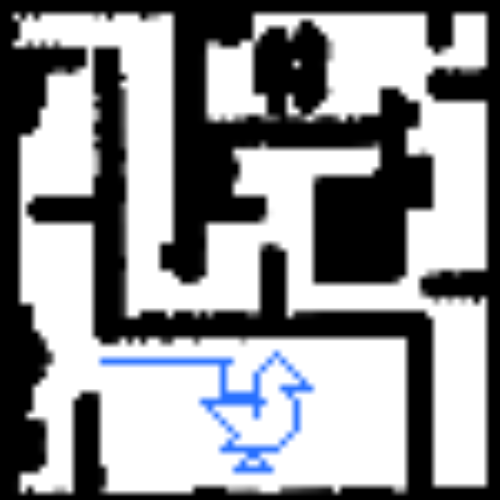
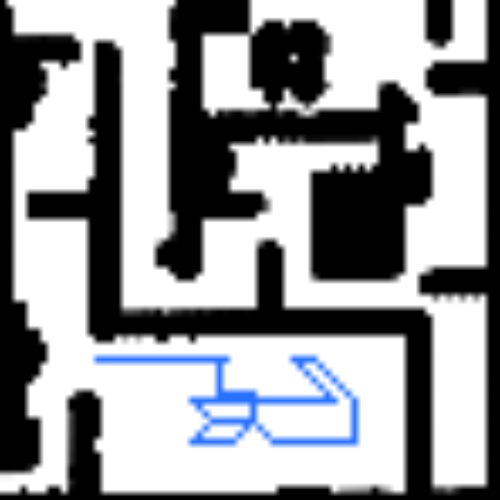
Gato

Changed region(s): [[0.0, 0.0, 0.99, 1.0], [0.0, 0.69, 0.24, 1.0]]

diff --git a/scripts/dibujo_server.py b/scripts/dibujo_server.py
@@ -59,7 +59,48 @@ class Ruta:
 
     def gato(self, derecha, izquierda, up, down, nodo):
         if (derecha + izquierda) > (up + down):  # Es ancho el espacio de dibujo
-            pass
+            for i in range(6):
+                nodo = self.dar_nodo_direccion('W', nodo)  # Se mueve del centro para arriba
+                self.ruta.append(nodo)
+            for i in range(3):
+                nodo = self.dar_nodo_direccion('N', nodo)
+                nodo = self.dar_nodo_direccion('W', nodo)  # Se mueve diagonal arriba a la punta de la cabeza
+                self.ruta.append(nodo)
+            for i in range(21):
+                nodo = self.dar_nodo_direccion('E', nodo)  # Se mueve diagonal abajo a la derecha hasta la punta del pico
+                self.ruta.append(nodo)
+            for i in range(6):
+                nodo = self.dar_nodo_direccion('N', nodo)
+                nodo = self.dar_nodo_direccion('W', nodo)  # Se mueve a la izquierda hasa el cuello
+                self.ruta.append(nodo)
+            for i in range(3):
+                nodo = self.dar_nodo_direccion('E', nodo)  # Diagonal derecha abajo para pecho
+                self.ruta.append(nodo)
+            for i in range(6):
+                nodo = self.dar_nodo_direccion('S', nodo)  # Recto hacia abajo para pecho
+                nodo = self.dar_nodo_direccion('E', nodo)
+                self.ruta.append(nodo)
+            for i in range(6):
+                nodo = self.dar_nodo_direccion('S', nodo)
+                self.ruta.append(nodo)
+            for i in range(12):
+                nodo = self.dar_nodo_direccion('W', nodo)  # Izquierda hasta llegar a la pata
+                self.ruta.append(nodo)
+            for i in range(3):
+                nodo = self.dar_nodo_direccion('N', nodo)
+                nodo = self.dar_nodo_direccion('W', nodo)  # Diagonal abajo derecha hasta casi el piso
+                self.ruta.append(nodo)
+            for i in range(3):
+                nodo = self.dar_nodo_direccion('S', nodo)
+                nodo = self.dar_nodo_direccion('W', nodo)  # Diagonal abajo derecha hasta casi el piso
+                self.ruta.append(nodo)
+            for i in range(6):
+                nodo = self.dar_nodo_direccion('W', nodo)
+                self.ruta.append(nodo)
+            for i in range(3):
+                nodo = self.dar_nodo_direccion('E',nodo)  # Izquierda hasta llegar a la parte inferior izquierda del pato.
+                nodo = self.dar_nodo_direccion('N', nodo)
+                self.ruta.append(nodo)
         else:  # es mas largo que ancho
             pass
         # TODO pintar jirafa.
